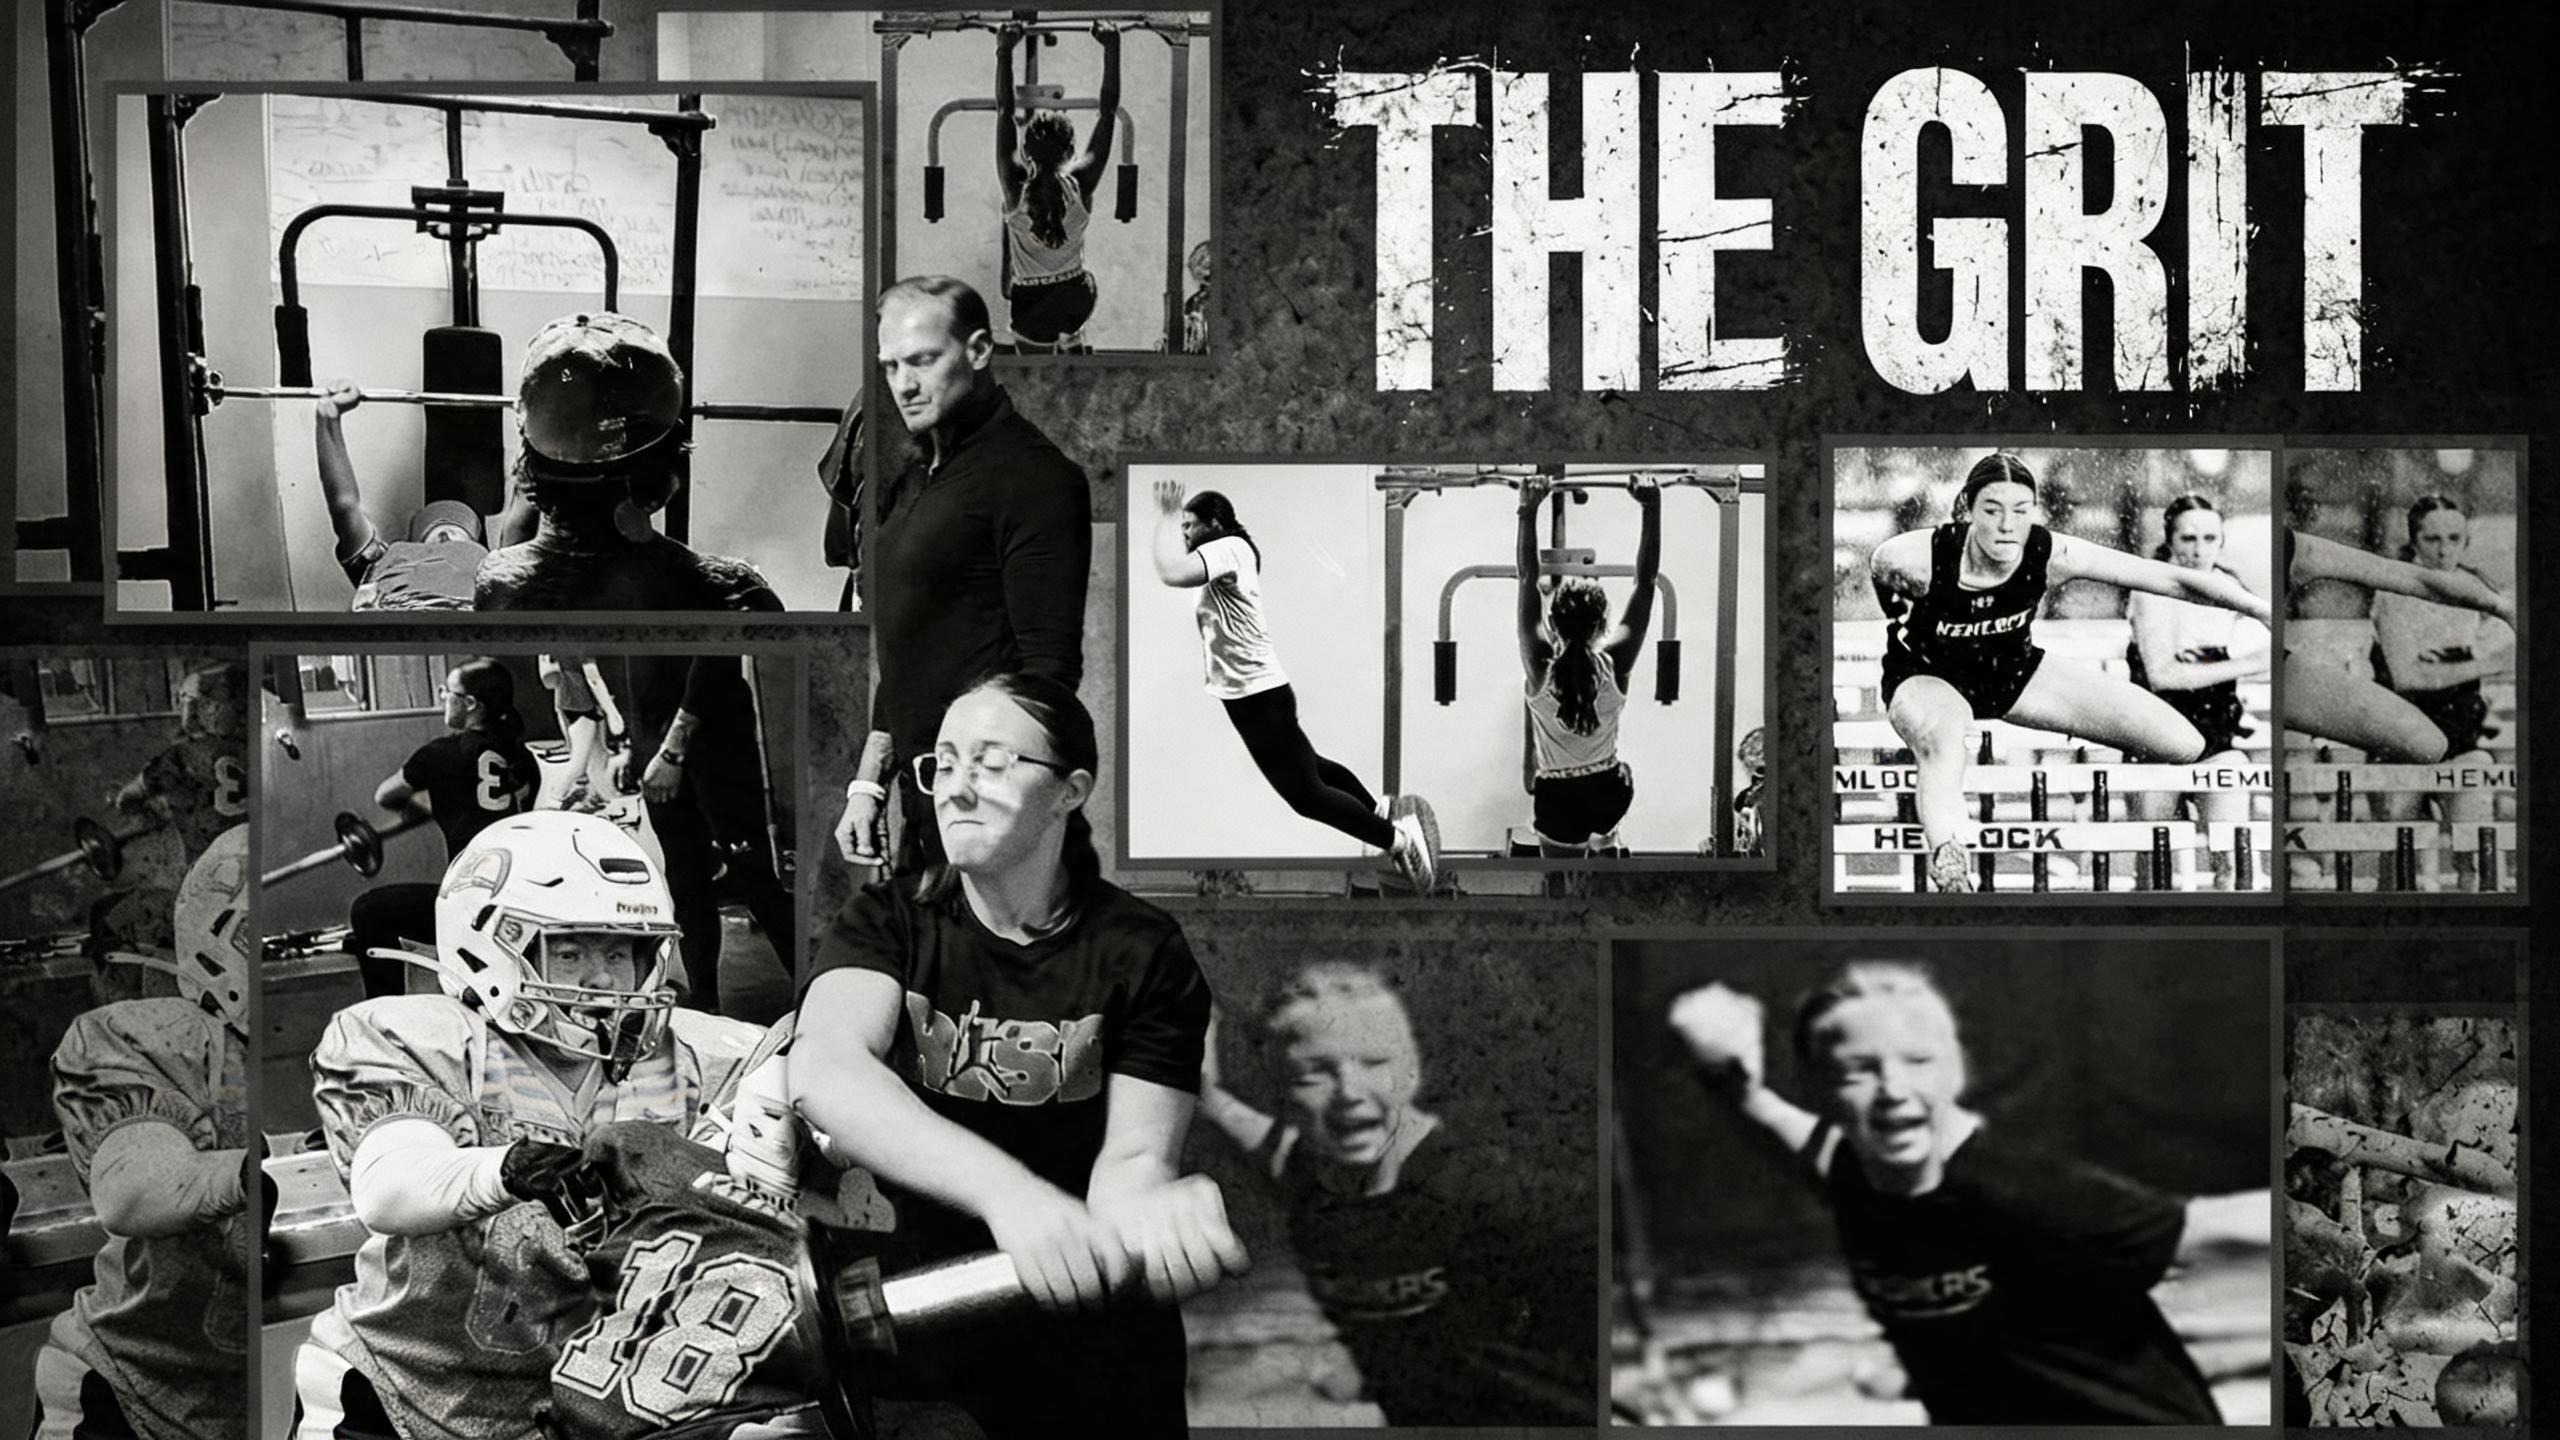
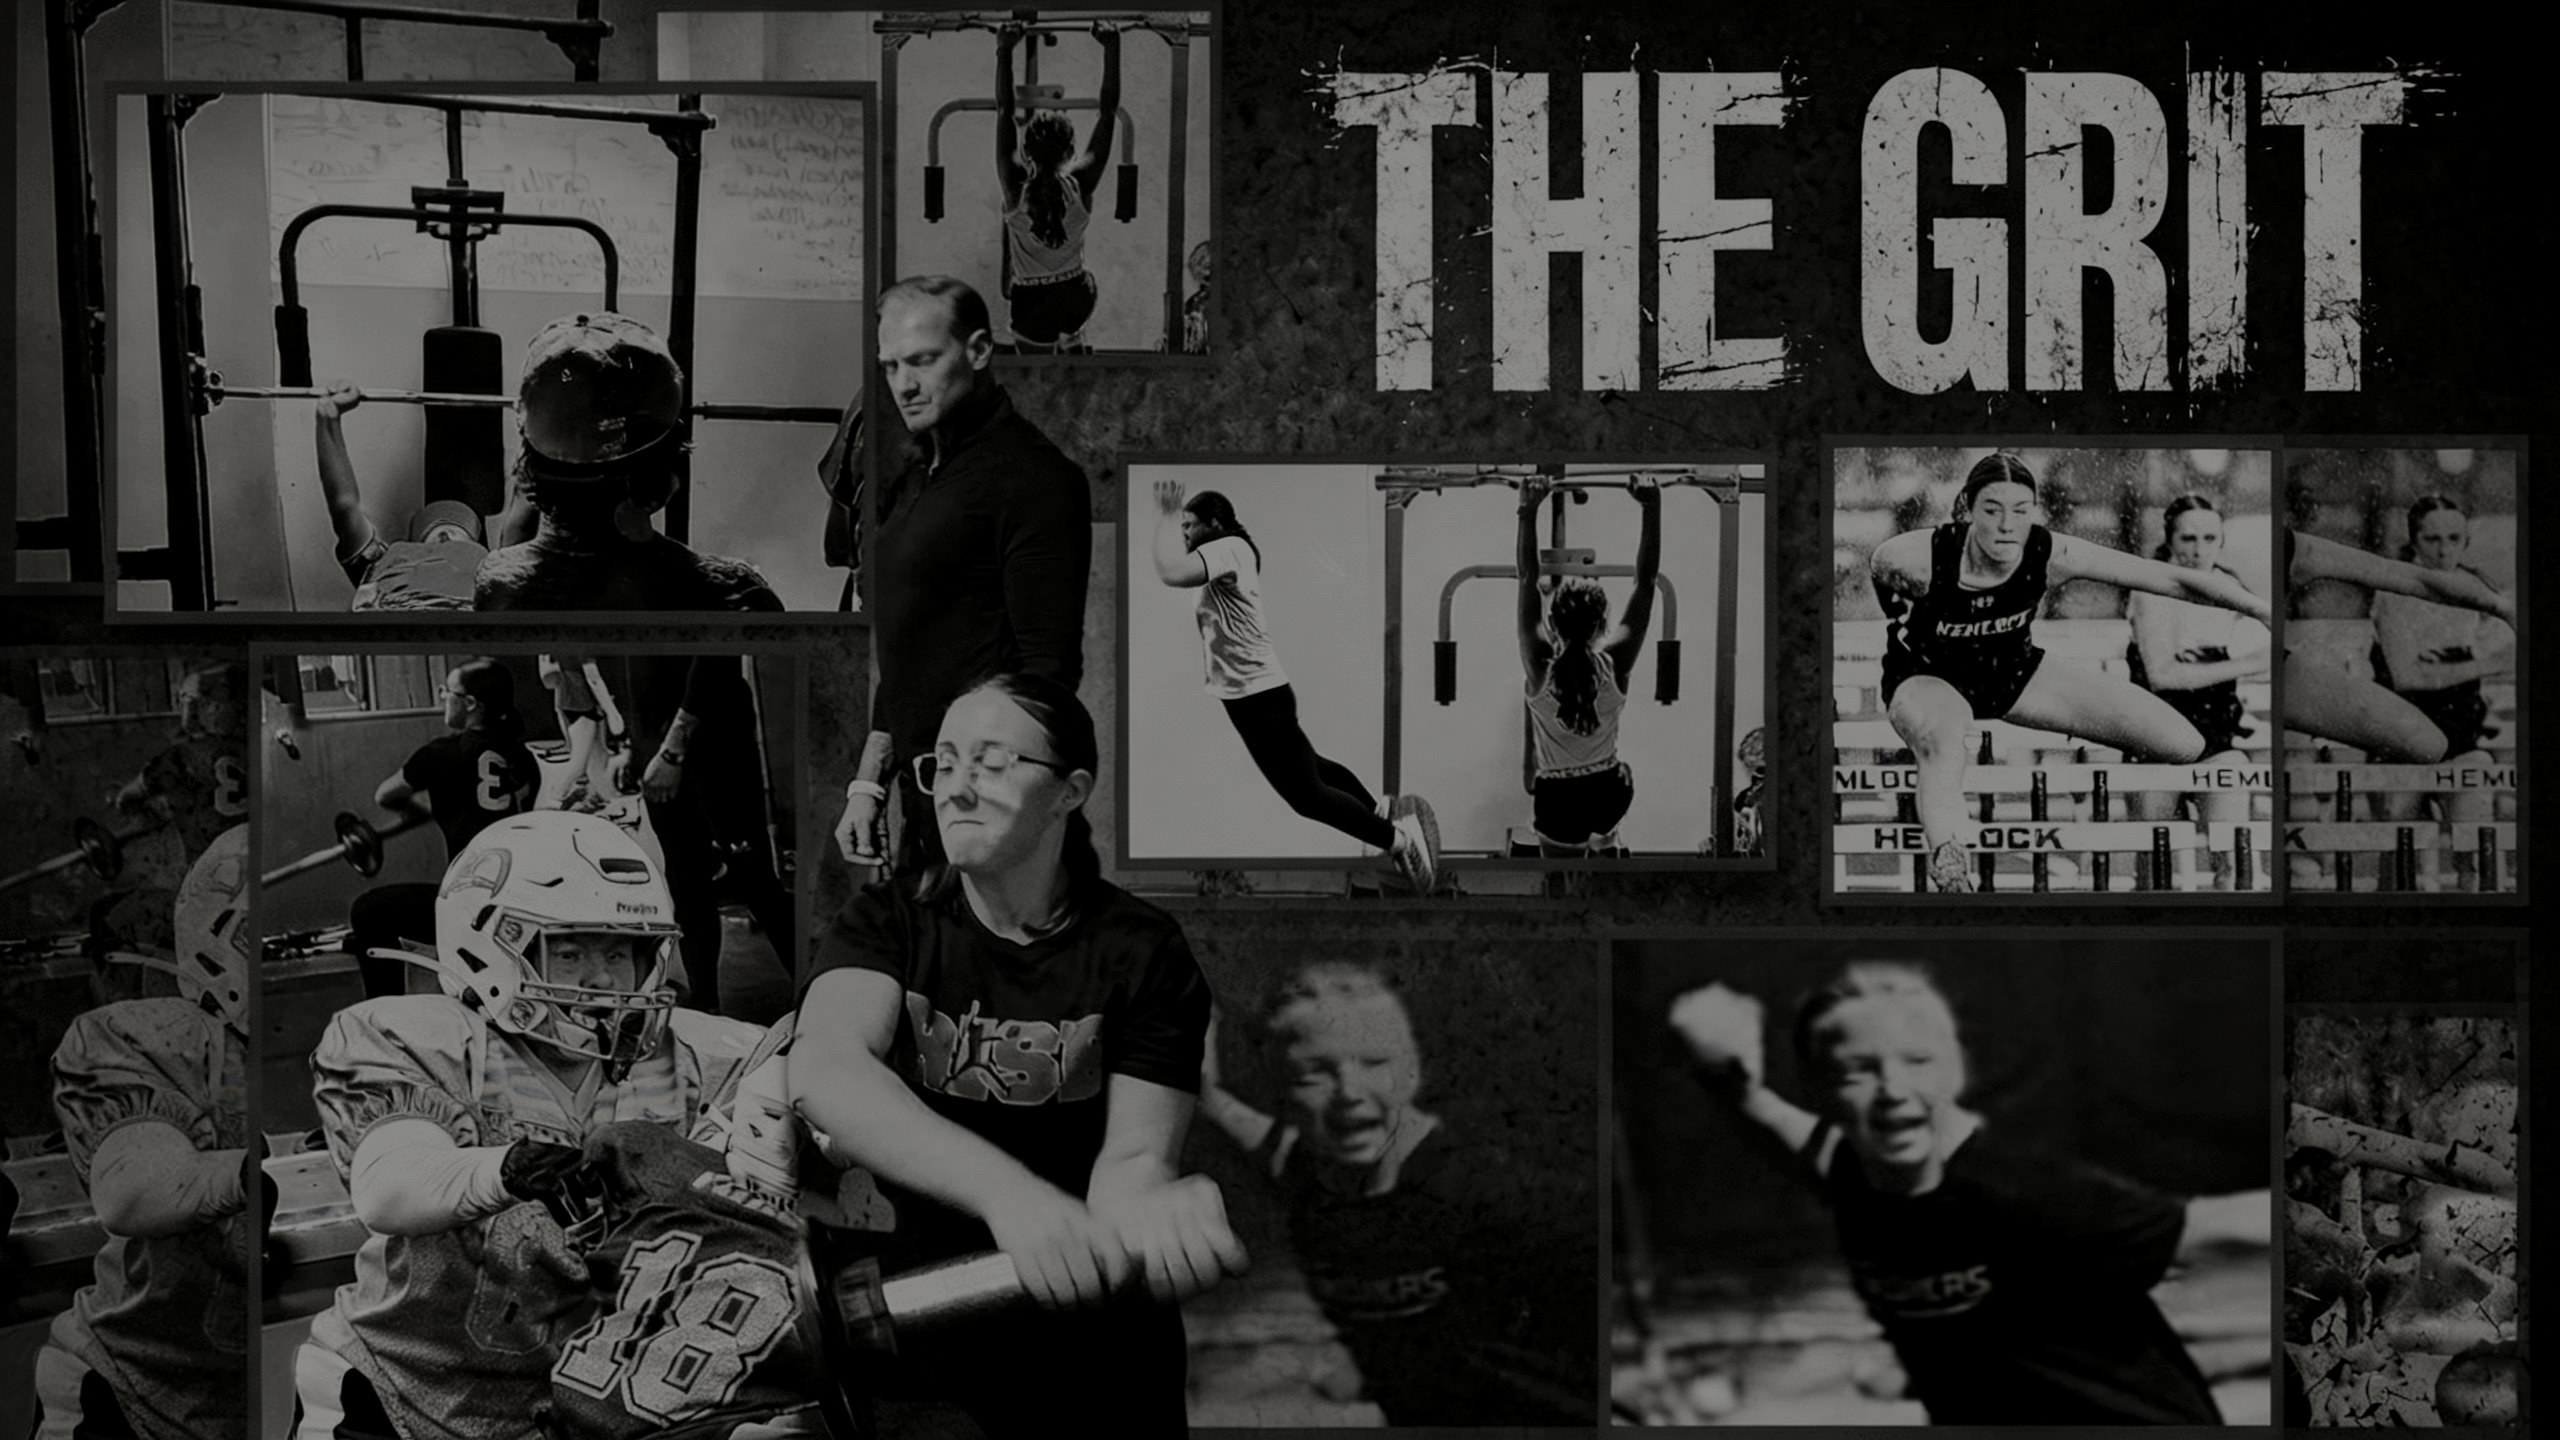
Add files via upload

diff --git a/index.html b/index.html
@@ -482,7 +482,19 @@ h1, h2, h3, .display {
 :root{--surface:#0f0f0f;--surface-dark:#0f0f0f;--border-strong:#ffffff1f;--orange:#ff4d00;--ink:#edebe6;--muted:#8a8a8a;--safe-area-inset-top:0px}@media (prefers-color-scheme:dark){:root{--surface:#0f0f0f;--surface-dark:#0f0f0f;--border-strong:#ffffff1f;--orange:#ff4d00;--ink:#edebe6;--muted:#8a8a8a;--safe-area-inset-top:0px}}*,:before,:after{box-sizing:border-box;border:0 solid #e5e7eb}html{-webkit-text-size-adjust:100%;line-height:1.5}body{line-height:inherit;color:#edebe6;background:#0f0f0f;margin:0}h1,h2,h3,h4,h5,h6,p,blockquote,dl,dd,figure,pre{margin:0}h1,h2,h3,h4,h5,h6{font-size:inherit;font-weight:inherit}ol,ul,menu{list-style:none;margin:0;padding:0}a{color:inherit;text-decoration:inherit}button,input,optgroup,select,textarea{font-family:inherit;font-size:100%;font-weight:inherit;line-height:inherit;letter-spacing:inherit;color:inherit;margin:0;padding:0}button{-webkit-appearance:button;background-color:#0000;background-image:none}input:where([type=button]){-webkit-appearance:button;background-color:#0000;background-image:none}input:where([type=reset]){-webkit-appearance:button;background-color:#0000;background-image:none}input:where([type=submit]){-webkit-appearance:button;background-color:#0000;background-image:none}button,[role=button]{cursor:pointer}:disabled{cursor:default}img,svg,video,canvas{display:block;vertical-align:middle}img,video{max-width:100%;height:auto}textarea{resize:vertical}::placeholder{color:#fff6;opacity:1}::placeholder{color:#fff6;opacity:1}::selection{color:#0f0f0f;background:#ff4d00}*{font-family:Space Grotesk,system-ui,-apple-system,BlinkMacSystemFont,Segoe UI,Roboto,Noto Sans,Ubuntu,Cantarell,Helvetica Neue,sans-serif}h1,h2,h3,.display{font-family:Anton,Impact,sans-serif}.pointer-events-none{pointer-events:none}.relative{position:relative}.fixed{position:fixed}.sticky{position:sticky}.inset-0{inset:0}.top-\[var\(--safe-area-inset-top\)\]{top:var(--safe-area-inset-top)}.z-0{z-index:0}.z-10{z-index:10}.z-40{z-index:40}.mx-auto{margin-left:auto;margin-right:auto}.mt-3{margin-top:.75rem}.flex{display:flex}.grid{display:grid}.hidden{display:none}.w-full{width:100%}.min-w-0{min-width:0}.flex-1{flex:1}.shrink-0{flex-shrink:0}.cursor-pointer{cursor:pointer}.grid-cols-1{grid-template-columns:repeat(1,minmax(0,1fr))}.flex-col{flex-direction:column}.flex-wrap{flex-wrap:wrap}.items-start{align-items: flex-start}.items-end{align-items: flex-end}.items-center{align-items: center}.justify-center{justify-content:center}.justify-between{justify-content:space-between}.gap-1{gap:.25rem}.gap-2{gap:.5rem}.gap-3{gap:.75rem}.gap-4{gap:1rem}.divide-y>:not([hidden])~:not([hidden]){border-top-width:1px}.divide-white\/10>:not([hidden])~:not([hidden]){border-color:#ffffff1a}.overflow-hidden{overflow:hidden}.overflow-x-clip{overflow-x:clip}.truncate{overflow:hidden;text-overflow:ellipsis;white-space:nowrap}.border{border-width:1px}.border-b{border-bottom-width:1px}.border-t{border-top-width:1px}.border-white\/10{border-color:#ffffff1a}.border-white\/15{border-color:#ffffff26}.bg-\[\#101010\]{background-color:#101010}.bg-\[\#161616\]{background-color:#161616}.bg-transparent{background-color:#0000}.object-cover{object-fit:cover}.p-4{padding:1rem}.p-6{padding:1.5rem}.p-8{padding:2rem}.p-10{padding:2.5rem}.px-3{padding-left:.75rem;padding-right:.75rem}.px-4{padding-left:1rem;padding-right:1rem}.px-5{padding-left:1.25rem;padding-right:1.25rem}.px-6{padding-left:1.5rem;padding-right:1.5rem}.py-2{padding-top:.5rem;padding-bottom:.5rem}.py-2\.5{padding-top:.625rem;padding-bottom:.625rem}.py-3{padding-top:.75rem;padding-bottom:.75rem}.py-3\.5{padding-top:.875rem;padding-bottom:.875rem}.py-8{padding-top:2rem;padding-bottom:2rem}.text-center{text-align:center}.uppercase{text-transform:uppercase}.font-bold{font-weight:700}.outline-none{outline:2px solid #0000;outline-offset:2px}.transition-colors{transition-property:color,background-color,border-color,text-decoration-color,fill,stroke;transition-duration:.15s;transition-timing-function:cubic-bezier(.4,0,.2,1)}.max-w-\[1600px\]{max-width:1600px}.hover\:\!border-\[\#FF4D00\]:hover{border-color:#ff4d00!important}.btn-save{color:#0f0f0f;background:#ff4d00;transition:filter .15s}.btn-save:hover{filter:brightness(1.15)}.btn-ghost{color:#edebe6;border:1px solid #ffffff26;transition:border-color .15s,color .15s}.btn-ghost:hover{color:#ff4d00;border-color:#ff4d00}@media (min-width:640px){.sm\:flex-row{flex-direction:row}.sm\:px-8{padding-left:2rem;padding-right:2rem}}@media (min-width:768px){.md\:grid-cols-2{grid-template-columns:repeat(2,minmax(0,1fr))}}@media (min-width:1024px){.lg\:sticky{position:sticky}.lg\:top-\[88px\]{top:88px}.lg\:grid-cols-3{grid-template-columns:repeat(3,minmax(0,1fr))}.lg\:grid-cols-\[1\.45fr_0\.85fr\]{grid-template-columns:1.45fr .85fr}}
 </style>
 <link rel="manifest" href="manifest.webmanifest"><meta name="theme-color" content="#0F0F0F"><meta name="mobile-web-app-capable" content="yes"><meta name="apple-mobile-web-app-capable" content="yes"><meta name="apple-mobile-web-app-status-bar-style" content="black-translucent"><meta name="apple-mobile-web-app-title" content="The GRIT"><link rel="apple-touch-icon" href="apple-touch-icon.png"><link rel="icon" type="image/png" sizes="32x32" href="favicon-32.png"><link rel="icon" type="image/png" sizes="192x192" href="icon-192.png"><style>
-.grit-bg{position:fixed;inset:0;z-index:0;pointer-events:none;background-image:url('background.jpg');background-size:cover;background-position:center center;background-repeat:no-repeat;opacity:0.70;}
+.grit-bg{position:fixed;inset:0;z-index:0;pointer-events:none;background-image:url('background.jpg');background-size:88% auto;background-position:center 78%;background-repeat:no-repeat;opacity:0.70;background-color:#0F0F0F;}
+/* iPhone: background zoomed out + shifted down, layout reformatted for iPhone */
+@media (max-width:480px){
+  .grit-bg{background-size:108% auto;background-position:center 72%;}
+  body{padding-left:env(safe-area-inset-left);padding-right:env(safe-area-inset-right);padding-bottom:env(safe-area-inset-bottom);}
+  #root{padding-left:0 !important;padding-right:0 !important;}
+  main{padding-left:12px !important;padding-right:12px !important;}
+  .grit-header-inner{height:auto !important;min-height:64px !important;padding-top:calc(8px + env(safe-area-inset-top)) !important;padding-bottom:8px !important;gap:8px !important;}
+  .grit-built-big{font-size:clamp(26px, 8vw, 34px) !important;}
+  .grit-built-sub{font-size:8px !important;}
+  nav[aria-label="Pages"]{gap:6px !important;flex-wrap:wrap !important;}
+  nav[aria-label="Pages"] button{flex:1 1 40% !important;padding:10px 8px !important;font-size:11px !important;}
+}
 .grit-bg::after{content:"";position:absolute;inset:0;background:radial-gradient(ellipse 90% 80% at 50% 45%, transparent 55%, rgba(0,0,0,0.55) 88%, rgba(0,0,0,0.85) 100%);}
 </style>
 <meta name="grit-version" content="2026-11-11-v16">
